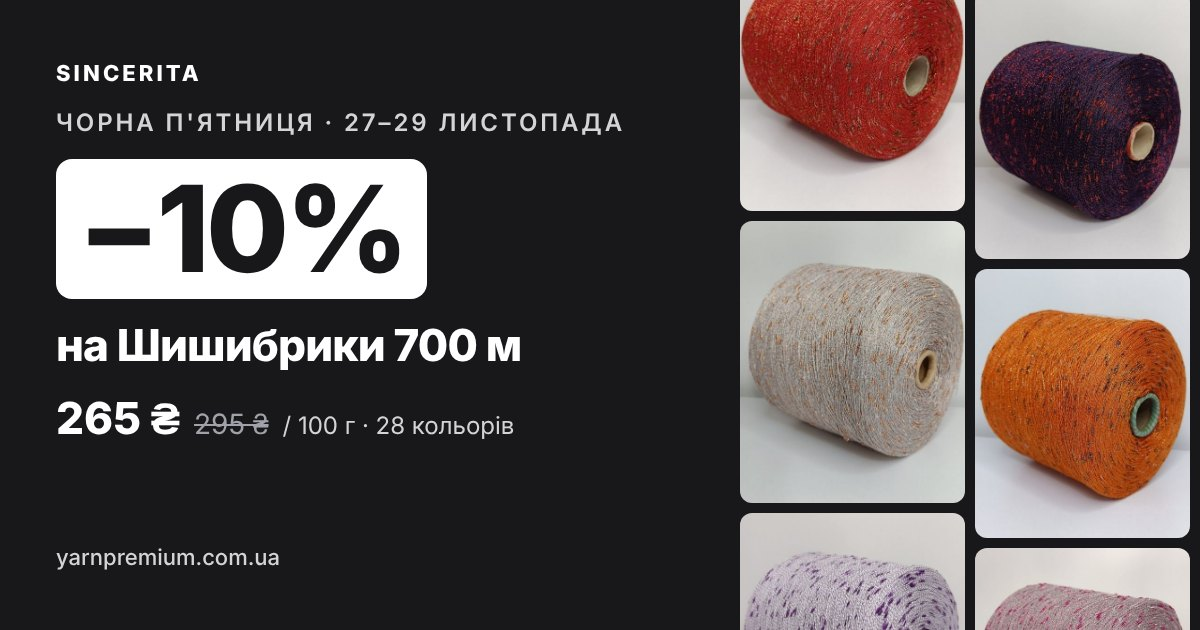
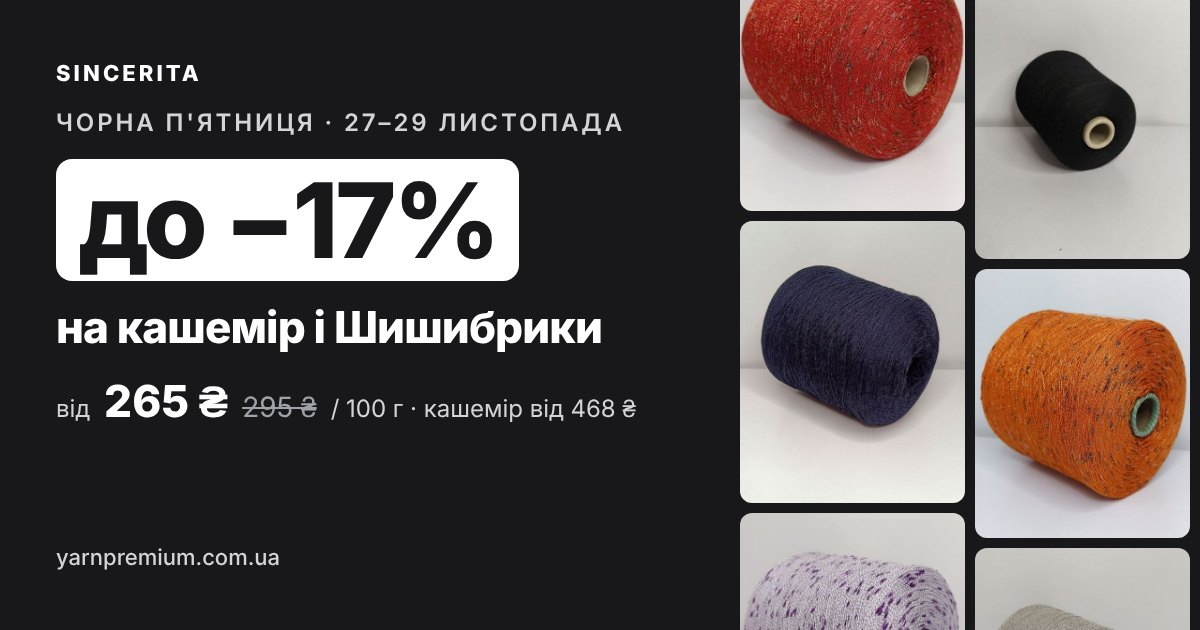
Black Friday: cashmere, up to −17%
14 SKUs from the shop's cashmere file, checked against KeyCRM (ST379 is
ST379-1 and ST379-2 there, as agreed). The link preview now says «до −17%
на кашемір і Шишибрики».

Claude-Session: https://claude.ai/code/session_013udC3EiEZhSB9mKebvxyNz

diff --git a/lib/promo-files/index.ts b/lib/promo-files/index.ts
@@ -1,5 +1,6 @@
 // Written by scripts/promo-import.mjs: every discount file in this folder.
 import type { PromoFile } from "@/lib/promo"
+import f_kashemir from "./kashemir.json"
 import f_shyshybryky_700 from "./shyshybryky-700.json"
 
-export const PROMO_FILES: PromoFile[] = [f_shyshybryky_700]
+export const PROMO_FILES: PromoFile[] = [f_kashemir, f_shyshybryky_700]
